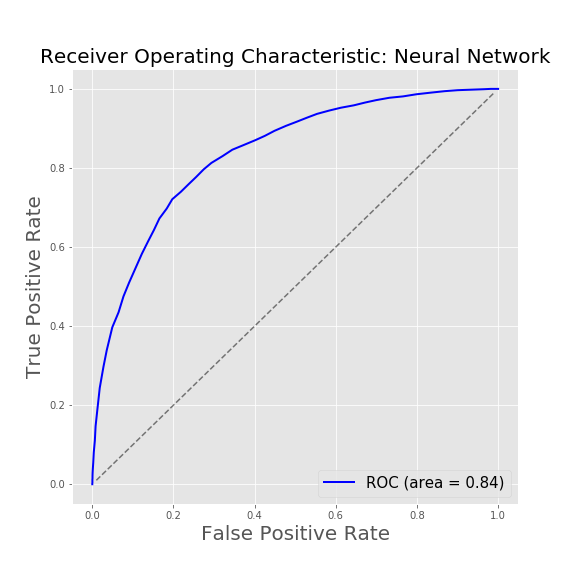
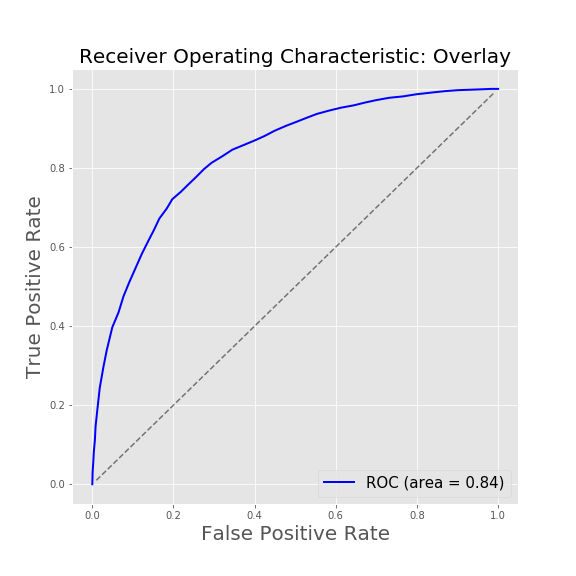
add roc overlay notebook and img

Changed region(s): [[0.0625, 0.0625, 0.9688, 0.125]]

diff --git a/src/roc.py b/src/roc.py
@@ -31,10 +31,10 @@ def plot_roc_curve(probabilities, labels, ax, title):
         fpr.append(num_incorrect_pred / num_false_pos)
         
     mean_auc = auc(fpr, tpr)
-    ax.plot(fpr, tpr, 'b', label='ROC (area = %2.2f)' % mean_auc, lw=2)
+    ax.plot(fpr, tpr, label=title + ' (area = %2.2f)' % mean_auc, lw=2)
     ax.set_xlabel('False Positive Rate', fontsize=20)
     ax.set_ylabel('True Positive Rate', fontsize=20)
-    ax.set_title('Receiver Operating Characteristic: %s' % title, fontsize=20)
+    ax.set_title('Receiver Operating Characteristic', fontsize=20)
     ax.legend(loc="lower right", fontsize=15)
     ax.plot(thresholds, thresholds, color='k', ls='--', alpha=.5)
         
